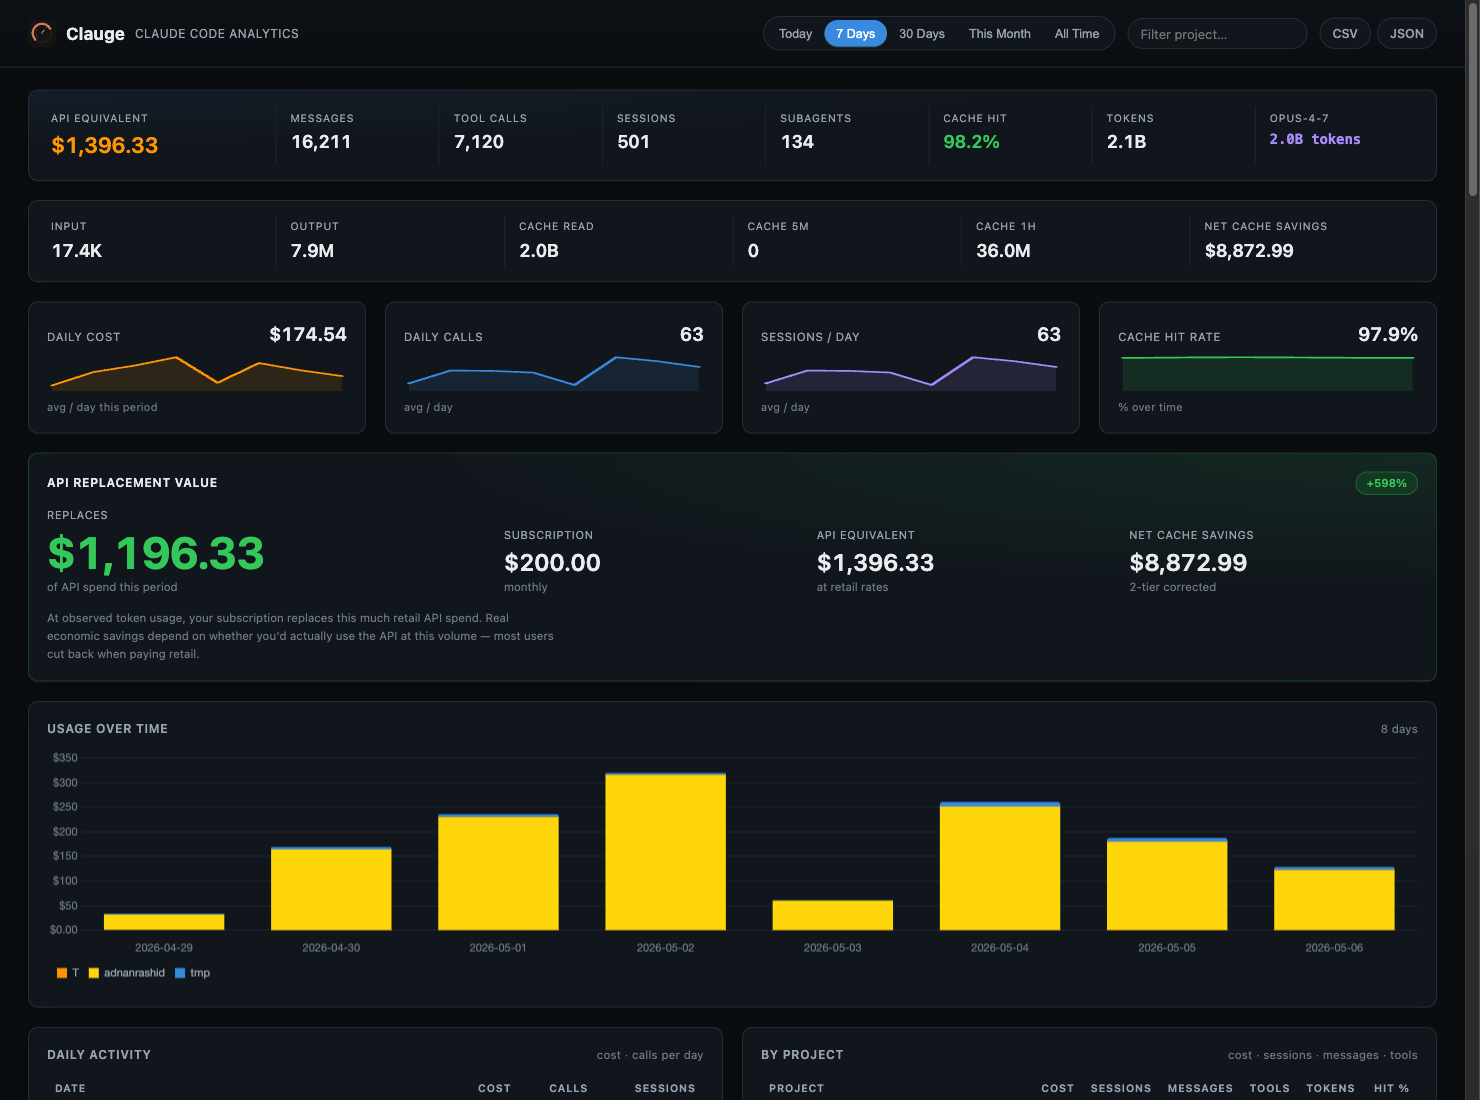
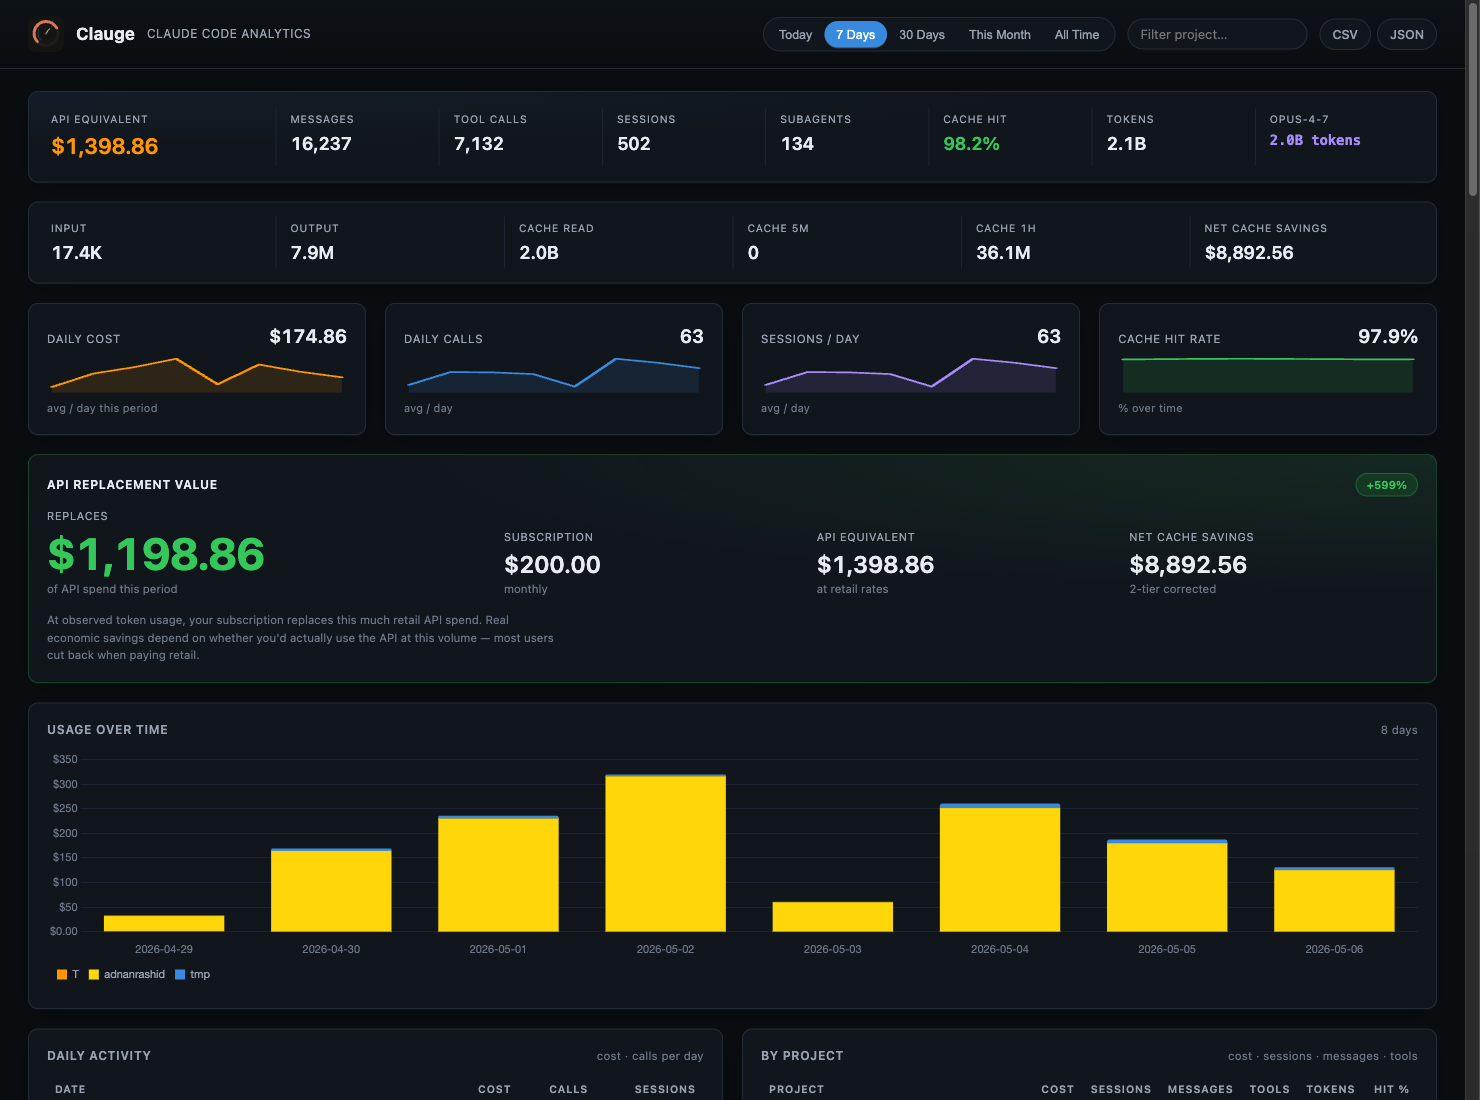
feat: bump brand mark to 36px so it reads in the README screenshot

diff --git a/public/index.html b/public/index.html
@@ -11,7 +11,7 @@
   <body data-theme="dark">
     <header class="topbar">
       <div class="brand">
-        <img class="brand-mark" src="/clauge-icon-512.svg" alt="" width="28" height="28" />
+        <img class="brand-mark" src="/clauge-icon-512.svg" alt="" width="36" height="36" />
         <span class="brand-name">Clauge</span>
         <span class="brand-tag">Claude Code analytics</span>
       </div>

diff --git a/public/styles.css b/public/styles.css
@@ -55,12 +55,13 @@ body {
   top: 0;
   z-index: 5;
 }
-.brand { display: flex; align-items: center; gap: 10px; }
+.brand { display: flex; align-items: center; gap: 12px; }
 .brand-mark {
-  width: 28px;
-  height: 28px;
-  border-radius: 7px;
+  width: 36px;
+  height: 36px;
+  border-radius: 8px;
   display: block;
+  flex-shrink: 0;
 }
 .brand-name {
   font-weight: 700;
